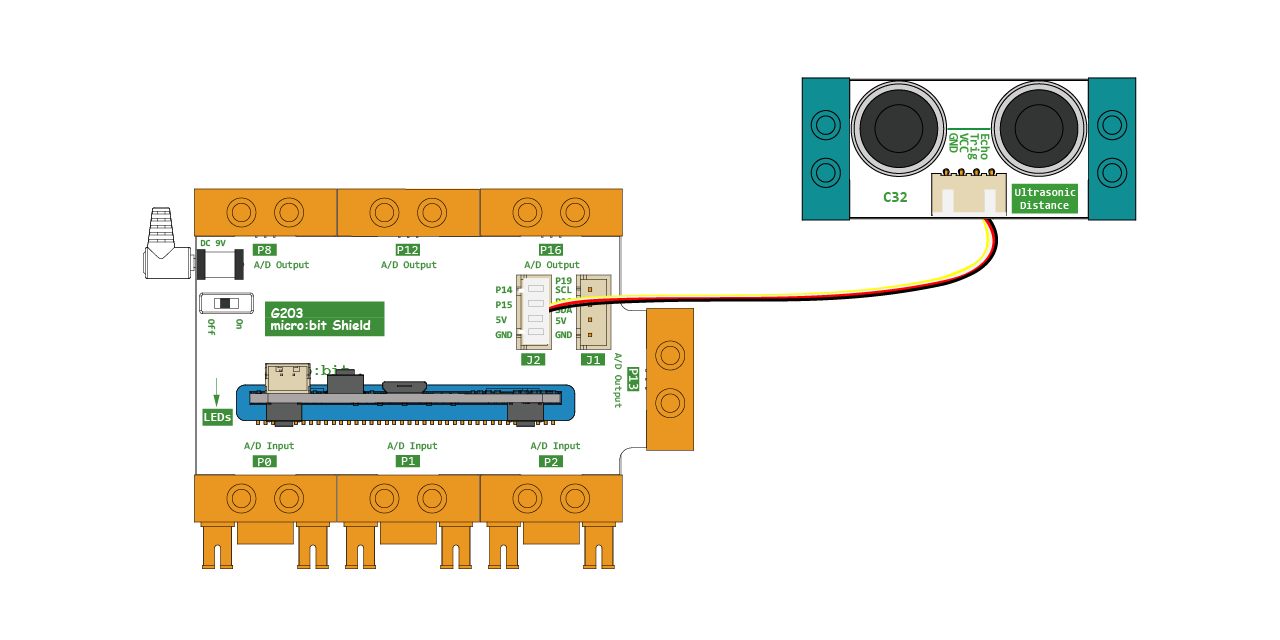
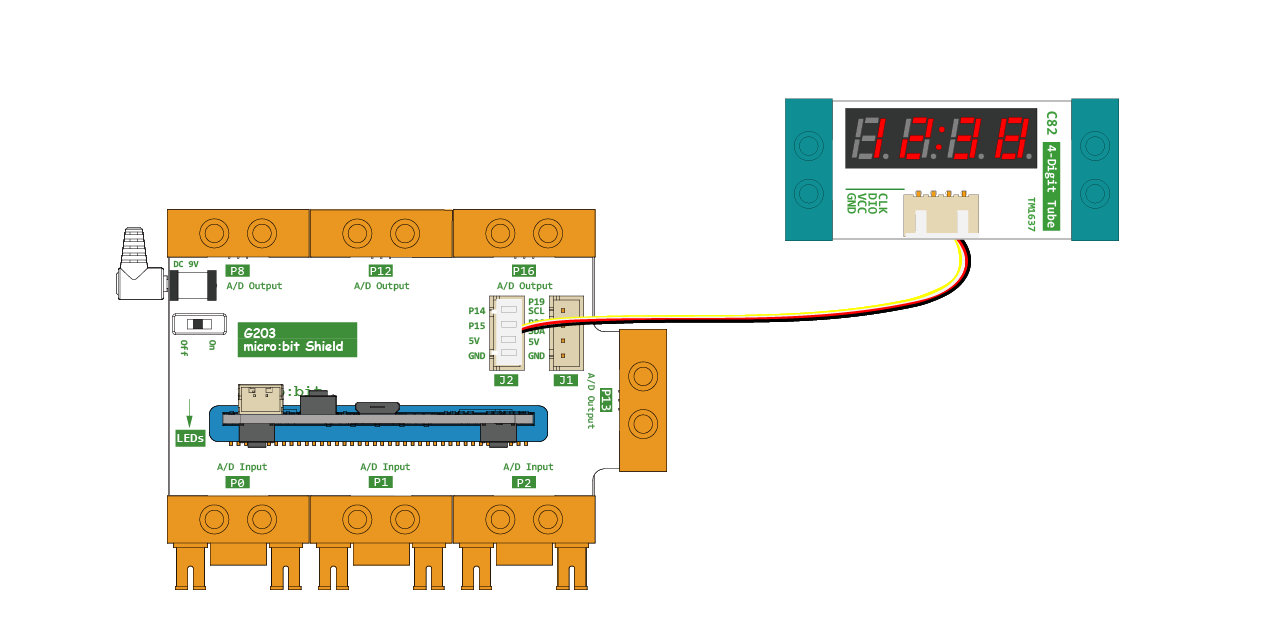
v0.0.15

Changed region(s): [[0.0938, 0.0938, 0.9062, 0.9375]]

diff --git a/README.md b/README.md
@@ -6,7 +6,7 @@ A MakeCode extensions for PPW intelligent building blocks.
 ## C32 Ultrasonic Distance module
 
 ### Wiring Diagram
-![C82 wiring Diagram](https://github.com/thireyes/pxt-pinpinwa/blob/master/c82wiring.png)
+![C32 wiring Diagram](https://github.com/thireyes/pxt-pinpinwa/blob/master/c32wiring.png)
 
 ### ping
 This package contains a ``ping`` block that can return the distance to an bostacle detected by the ultrasonic.
@@ -185,7 +185,7 @@ basic.forever(() => {
 ## C82 Digit Tube
 
 ### Wiring Diagram
-![C81 wiring Diagram](https://github.com/thireyes/pxt-pinpinwa/blob/master/c81wiring.png)
+![C82 wiring Diagram](https://github.com/thireyes/pxt-pinpinwa/blob/master/c82wiring.png)
 
 ### Creat
 create a TM1637 object
